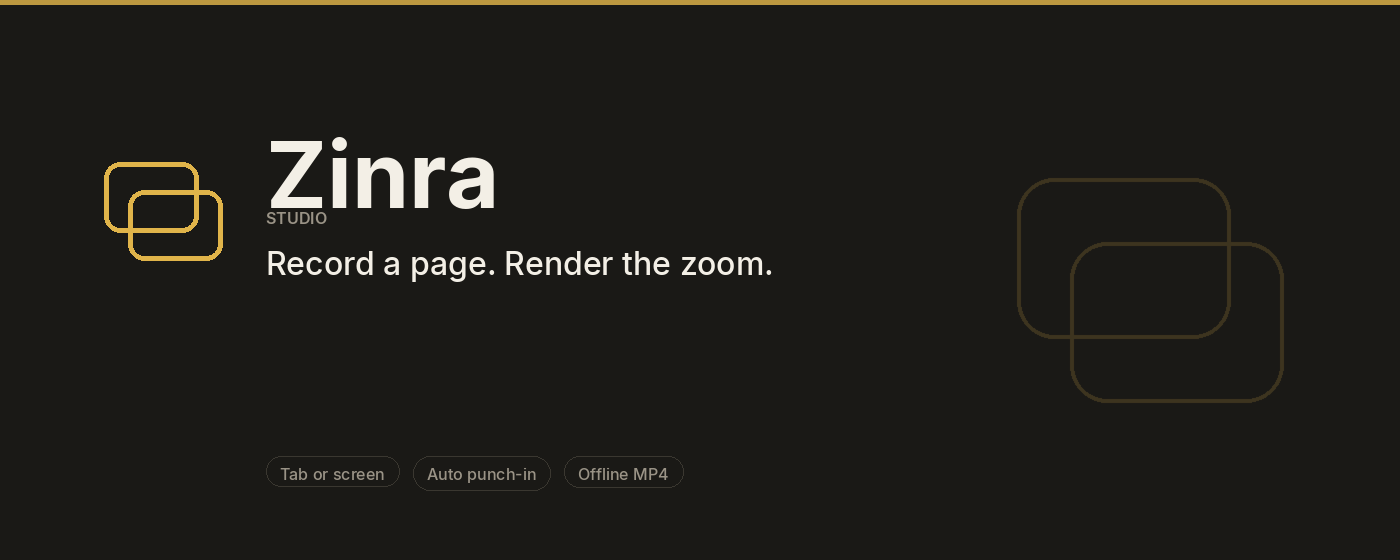
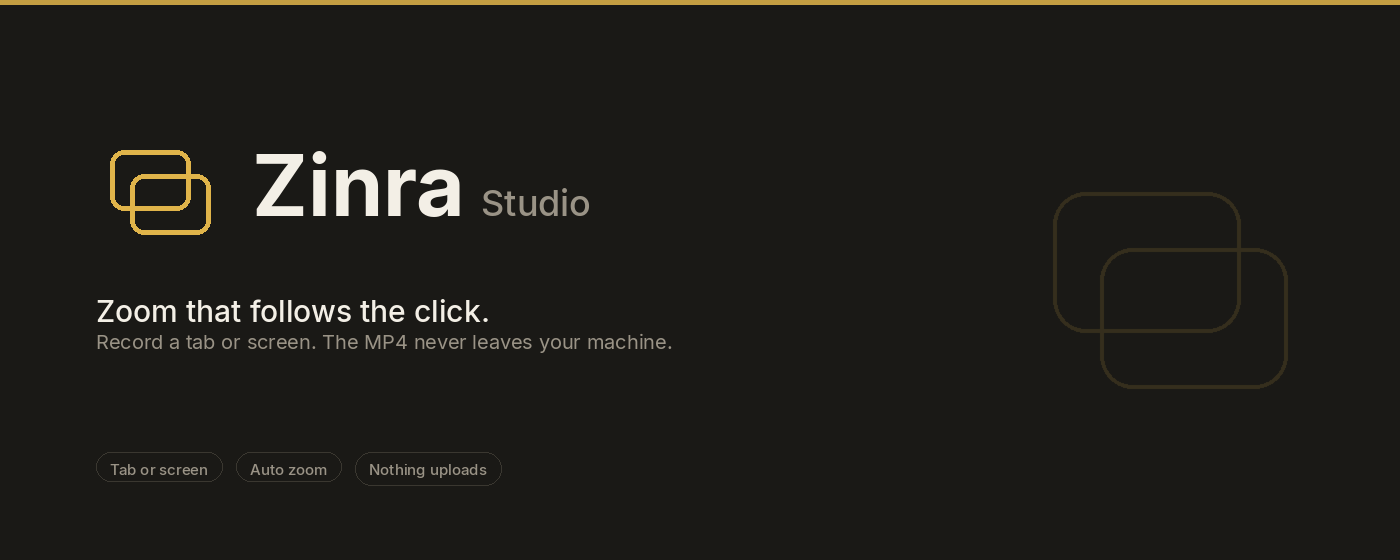
Rewrite store promo tiles: Zinra Studio lockup and a clearer pitch
Studio sits on the same line as Zinra instead of tucked under the
wordmark. Slogan is now "Zoom that follows the click," with a
supporting line on the marquee that the MP4 stays on the machine.

diff --git a/store-assets/generate-listing.py b/store-assets/generate-listing.py
@@ -56,36 +56,52 @@ def save_rgb(im: Image.Image, path: Path):
     print(f"wrote {path.relative_to(ROOT)} {im.size}")
 
 
+SLOGAN = "Zoom that follows the click."
+SUPPORT = "Record a tab or screen. The MP4 never leaves your machine."
+
+
+def draw_wordmark(draw, x, y, word_size, studio_size):
+    """Zinra + Studio on one baseline. Returns (width, height, baseline_y)."""
+    word = font("Inter-Bold.ttf", word_size)
+    studio = font("Inter-Medium.ttf", studio_size)
+    word_box = draw.textbbox((0, 0), "Zinra", font=word)
+    studio_box = draw.textbbox((0, 0), "Studio", font=studio)
+    word_w, word_h = word_box[2] - word_box[0], word_box[3] - word_box[1]
+    studio_w = studio_box[2] - studio_box[0]
+    gap = max(10, word_size // 5)
+    # Shared baseline so Studio sits beside Zinra, not under it.
+    baseline = y + word_h
+    draw.text((x, baseline), "Zinra", font=word, fill=IVORY, anchor="ls")
+    draw.text((x + word_w + gap, baseline), "Studio", font=studio, fill=DUST, anchor="ls")
+    return word_w + gap + studio_w, word_h, baseline
+
+
 def promo_small():
     w, h = 440, 280
     im = Image.new("RGB", (w, h), GRAPHITE)
     draw = ImageDraw.Draw(im)
     draw.rectangle((0, 0, w, 3), fill=SAFFRON)
 
-    word = font("Inter-Bold.ttf", 44)
-    kicker = font("Inter-SemiBold.ttf", 11)
-    tag = font("Inter-Medium.ttf", 18)
+    tag = font("Inter-Medium.ttf", 17)
+    mark = 64
+    word_size = 40
+    # Measure lockup before placing so the block can sit in the optical center.
+    probe = ImageDraw.Draw(Image.new("RGB", (w, h), GRAPHITE))
+    lockup_w, lockup_h, _ = draw_wordmark(probe, 0, 0, word_size, 22)
+    tag_w, tag_h = measure(draw, SLOGAN, tag)
+    rule_w = min(72, tag_w)
+    block_w = max(mark + 14 + lockup_w, tag_w)
+    block_h = max(mark, lockup_h) + 18 + 1 + 16 + tag_h
+    left = (w - block_w) // 2
+    top = (h - block_h) // 2 + 4
 
-    pad = 36
-    mark = 72
-    word_w, word_h = measure(draw, "Zinra", word)
-    kick_w, kick_h = measure(draw, "STUDIO", kicker)
-    tag_w, tag_h = measure(draw, "Record. Punch in. Export.", tag)
+    draw_mark(draw, left, top + (max(mark, lockup_h) - mark) // 2, mark, 3)
+    draw_wordmark(draw, left + mark + 14, top + (max(mark, lockup_h) - lockup_h) // 2, word_size, 22)
 
-    lockup_w = mark + 16 + max(word_w, kick_w)
-    # Word, then a hard gap, then STUDIO, then a larger gap, then the tagline.
-    lockup_h = word_h + 16 + kick_h
-    block_h = lockup_h + 28 + tag_h
-    top = (h - block_h) // 2
-    left = (w - lockup_w) // 2
-
-    draw_mark(draw, left, top + (lockup_h - mark) // 2, mark, 3)
-    tx = left + mark + 16
-    draw.text((tx, top), "Zinra", font=word, fill=IVORY)
-    studio_y = top + word_h + 16
-    draw.text((tx, studio_y), "STUDIO", font=kicker, fill=DUST)
-    tag_x = (w - tag_w) // 2
-    draw.text((tag_x, studio_y + kick_h + 26), "Record. Punch in. Export.", font=tag, fill=IVORY)
+    rule_y = top + max(mark, lockup_h) + 18
+    rule_x = (w - rule_w) // 2
+    draw.rectangle((rule_x, rule_y, rule_x + rule_w, rule_y + 2), fill=SAFFRON)
+    draw.text(((w - tag_w) // 2, rule_y + 16), SLOGAN, font=tag, fill=IVORY)
     save_rgb(im, OUT / "promo-small-440x280.png")
 
 
@@ -94,35 +110,32 @@ def promo_marquee():
     im = Image.new("RGB", (w, h), GRAPHITE)
     draw = ImageDraw.Draw(im)
     draw.rectangle((0, 0, w, 4), fill=SAFFRON)
-    # Quiet nested-frame watermark on the right, far from type.
     ghost = Image.new("RGB", (w, h), GRAPHITE)
     gdraw = ImageDraw.Draw(ghost)
-    draw_mark(gdraw, 980, 120, 340, 4)
+    draw_mark(gdraw, 1020, 140, 300, 4)
     ghost = ghost.filter(ImageFilter.GaussianBlur(0.4))
-    im = Image.blend(im, ghost, 0.18)
+    im = Image.blend(im, ghost, 0.14)
     draw = ImageDraw.Draw(im)
 
-    word = font("Inter-Bold.ttf", 92)
-    kicker = font("Inter-SemiBold.ttf", 16)
-    tag = font("Inter-Medium.ttf", 32)
-    chip = font("Inter-Medium.ttf", 16)
+    tag = font("Inter-Medium.ttf", 30)
+    support = font("Inter-Regular.ttf", 20)
+    chip = font("Inter-Medium.ttf", 15)
+    pad_x = 96
+    mark = 128
+    top = 128
 
-    pad_x = 88
-    mark = 150
-    top = 118
-    draw_mark(draw, pad_x, top + 18, mark, 5)
-    tx = pad_x + mark + 28
-    draw.text((tx, top), "Zinra", font=word, fill=IVORY)
-    _, word_h = measure(draw, "Zinra", word)
-    studio_y = top + word_h + 18
-    draw.text((tx, studio_y), "STUDIO", font=kicker, fill=DUST)
-    _, kick_h = measure(draw, "STUDIO", kicker)
-    draw.text((tx, studio_y + kick_h + 24), "Record a page. Render the zoom.", font=tag, fill=IVORY)
+    draw_mark(draw, pad_x, top, mark, 5)
+    _, lockup_h, _ = draw_wordmark(draw, pad_x + mark + 28, top + 22, 84, 36)
 
-    chips = ["Tab or screen", "Auto punch-in", "Offline MP4"]
-    y = 456
-    x = tx
-    for i, label in enumerate(chips):
+    slogan_y = top + max(mark, lockup_h + 18) + 36
+    draw.text((pad_x, slogan_y), SLOGAN, font=tag, fill=IVORY)
+    _, tag_h = measure(draw, SLOGAN, tag)
+    draw.text((pad_x, slogan_y + tag_h + 14), SUPPORT, font=support, fill=DUST)
+
+    chips = ["Tab or screen", "Auto zoom", "Nothing uploads"]
+    y = 452
+    x = pad_x
+    for label in chips:
         cw, ch = measure(draw, label, chip)
         box = (x, y, x + cw + 28, y + ch + 18)
         draw.rounded_rectangle(box, radius=999, outline=(58, 55, 48), width=1)
